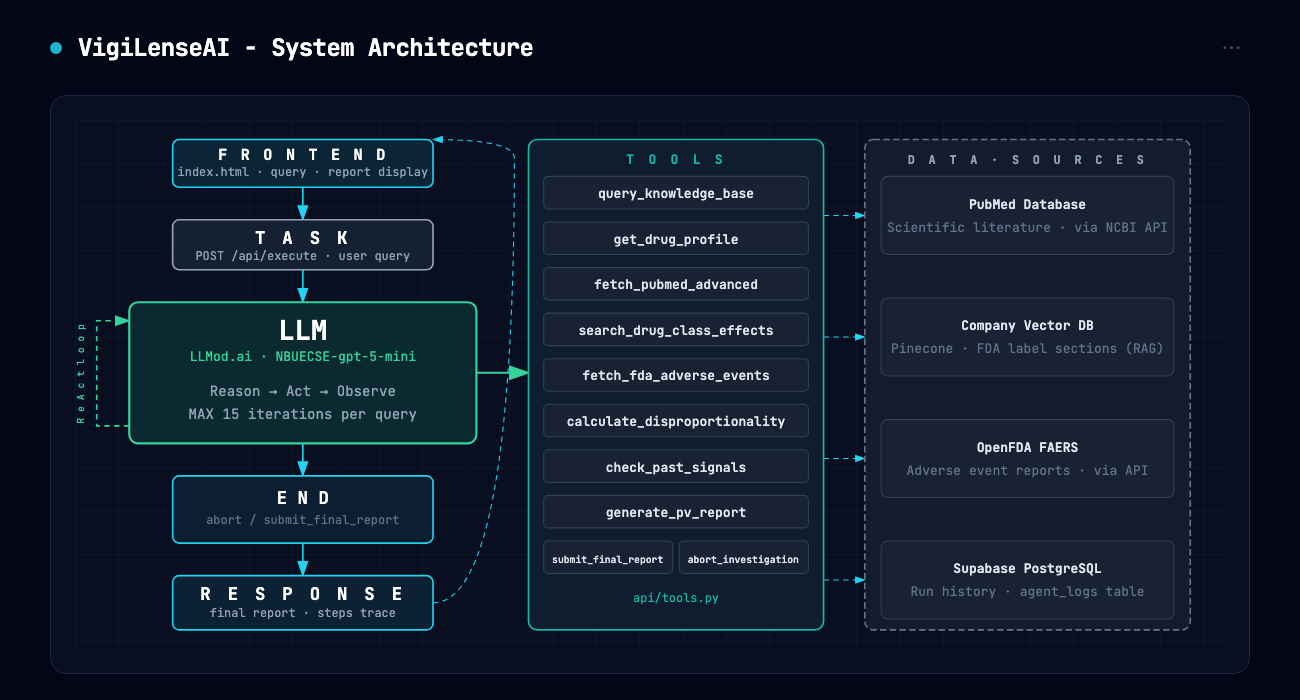
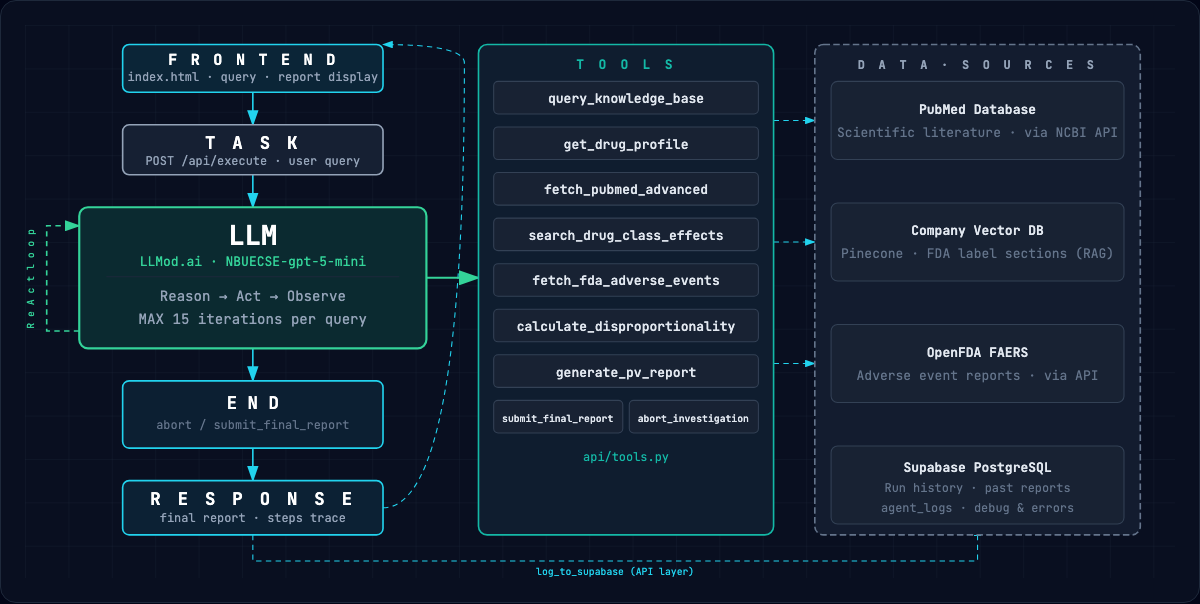
docs: update architecture diagram and README after check_past_signals removal
- architecture.html: remove check_past_signals tool row, shift remaining
  tools up, disconnect TOOLS→Supabase arrow, add RESPONSE→Supabase
  logging path (log_to_supabase), update Supabase description to show
  both run history and debug logs purposes
- api/architecture.png: regenerated from updated architecture.html
- README.md: remove check_past_signals tool entry, update tool count
  from 10 to 9 across all references

diff --git a/architecture.html b/architecture.html
@@ -54,7 +54,7 @@
         Bottom line: y=470 → RESPONSE bottom = TOOLS bottom = DATA SOURCES bottom
         Arrow gaps:  30px each (FRONTEND→TASK, TASK→LLM, LLM→END, END→RESPONSE)
     -->
-    <svg viewBox="0 0 1060 488">
+    <svg viewBox="0 0 1060 510">
       <defs>
         <marker id="arr"         markerWidth="10" markerHeight="7" refX="9" refY="3.5" orient="auto"><polygon points="0 0, 10 3.5, 0 7" fill="#64748b"/></marker>
         <marker id="arr-cyan"    markerWidth="10" markerHeight="7" refX="9" refY="3.5" orient="auto"><polygon points="0 0, 10 3.5, 0 7" fill="#22d3ee"/></marker>
@@ -80,14 +80,17 @@
       <!-- RESPONSE → FRONTEND (return loop, right side) -->
       <path d="M 330,445 Q 405,445 405,35 Q 405,18 330,18" fill="none" stroke="#22d3ee" stroke-width="1" stroke-dasharray="5,4" marker-end="url(#arr-cyan)"/>
 
+      <!-- RESPONSE → Supabase (logging, routed below diagram) -->
+      <path d="M 210,470 L 210,494 L 878,494 L 878,462" fill="none" stroke="#22d3ee" stroke-width="1" stroke-dasharray="5,4" marker-end="url(#arr-cyan)"/>
+      <text x="544" y="507" fill="#22d3ee" font-family="JetBrains Mono,monospace" font-size="9" text-anchor="middle">log_to_supabase (API layer)</text>
+
       <!-- LLM → TOOLS -->
       <line x1="370" y1="233" x2="418" y2="233" stroke="#34d399" stroke-width="2" marker-end="url(#arr-emerald)"/>
 
-      <!-- TOOLS → DATA SOURCES (4 arrows, aligned with data source centers) -->
+      <!-- TOOLS → DATA SOURCES (3 arrows, aligned with data source centers) -->
       <line x1="690" y1="88"  x2="728" y2="88"  stroke="#22d3ee" stroke-width="1" stroke-dasharray="5,4" marker-end="url(#arr-cyan)"/>
       <line x1="690" y1="200" x2="728" y2="200" stroke="#22d3ee" stroke-width="1" stroke-dasharray="5,4" marker-end="url(#arr-cyan)"/>
       <line x1="690" y1="312" x2="728" y2="312" stroke="#22d3ee" stroke-width="1" stroke-dasharray="5,4" marker-end="url(#arr-cyan)"/>
-      <line x1="690" y1="424" x2="728" y2="424" stroke="#22d3ee" stroke-width="1" stroke-dasharray="5,4" marker-end="url(#arr-cyan)"/>
 
       <!-- ══ LEFT COLUMN ══ -->
 
@@ -160,22 +163,18 @@
 
       <rect x="432" y="304" width="244" height="30" rx="4" fill="#0f172a"/>
       <rect x="432" y="304" width="244" height="30" rx="4" fill="rgba(30,41,59,0.6)" stroke="#334155" stroke-width="1"/>
-      <text x="554" y="324" fill="#e2e8f0" font-family="JetBrains Mono,monospace" font-size="12" font-weight="500" text-anchor="middle">check_past_signals</text>
+      <text x="554" y="324" fill="#e2e8f0" font-family="JetBrains Mono,monospace" font-size="12" font-weight="500" text-anchor="middle">generate_pv_report</text>
 
-      <rect x="432" y="346" width="244" height="30" rx="4" fill="#0f172a"/>
-      <rect x="432" y="346" width="244" height="30" rx="4" fill="rgba(30,41,59,0.6)" stroke="#334155" stroke-width="1"/>
-      <text x="554" y="366" fill="#e2e8f0" font-family="JetBrains Mono,monospace" font-size="12" font-weight="500" text-anchor="middle">generate_pv_report</text>
+      <!-- Tools 9+10: y=346, half width -->
+      <rect x="432" y="346" width="119" height="30" rx="4" fill="#0f172a"/>
+      <rect x="432" y="346" width="119" height="30" rx="4" fill="rgba(30,41,59,0.6)" stroke="#334155" stroke-width="1"/>
+      <text x="491" y="366" fill="#e2e8f0" font-family="JetBrains Mono,monospace" font-size="9" font-weight="500" text-anchor="middle">submit_final_report</text>
 
-      <!-- Tools 9+10: y=388, half width -->
-      <rect x="432" y="388" width="119" height="30" rx="4" fill="#0f172a"/>
-      <rect x="432" y="388" width="119" height="30" rx="4" fill="rgba(30,41,59,0.6)" stroke="#334155" stroke-width="1"/>
-      <text x="491" y="408" fill="#e2e8f0" font-family="JetBrains Mono,monospace" font-size="9" font-weight="500" text-anchor="middle">submit_final_report</text>
+      <rect x="557" y="346" width="119" height="30" rx="4" fill="#0f172a"/>
+      <rect x="557" y="346" width="119" height="30" rx="4" fill="rgba(30,41,59,0.6)" stroke="#334155" stroke-width="1"/>
+      <text x="616" y="366" fill="#e2e8f0" font-family="JetBrains Mono,monospace" font-size="9" font-weight="500" text-anchor="middle">abort_investigation</text>
 
-      <rect x="557" y="388" width="119" height="30" rx="4" fill="#0f172a"/>
-      <rect x="557" y="388" width="119" height="30" rx="4" fill="rgba(30,41,59,0.6)" stroke="#334155" stroke-width="1"/>
-      <text x="616" y="408" fill="#e2e8f0" font-family="JetBrains Mono,monospace" font-size="9" font-weight="500" text-anchor="middle">abort_investigation</text>
-
-      <text x="554" y="444" fill="#14b8a6" font-family="JetBrains Mono,monospace" font-size="11" text-anchor="middle">api/tools.py</text>
+      <text x="554" y="402" fill="#14b8a6" font-family="JetBrains Mono,monospace" font-size="11" text-anchor="middle">api/tools.py</text>
 
       <!-- ══ RIGHT COLUMN — DATA SOURCES (y=18 to y=470, h=452) ══ -->
 
@@ -206,8 +205,9 @@
       <!-- Supabase: y=388–460, center=424 -->
       <rect x="743" y="388" width="270" height="72" rx="6" fill="#0f172a"/>
       <rect x="743" y="388" width="270" height="72" rx="6" fill="rgba(30,41,59,0.6)" stroke="#334155" stroke-width="1"/>
-      <text x="878" y="418" fill="#e2e8f0" font-family="JetBrains Mono,monospace" font-size="12" font-weight="600" text-anchor="middle">Supabase PostgreSQL</text>
-      <text x="878" y="439" fill="#64748b" font-family="JetBrains Mono,monospace" font-size="12" text-anchor="middle">Run history · agent_logs table</text>
+      <text x="878" y="412" fill="#e2e8f0" font-family="JetBrains Mono,monospace" font-size="12" font-weight="600" text-anchor="middle">Supabase PostgreSQL</text>
+      <text x="878" y="430" fill="#64748b" font-family="JetBrains Mono,monospace" font-size="11" text-anchor="middle">Run history · past reports</text>
+      <text x="878" y="449" fill="#64748b" font-family="JetBrains Mono,monospace" font-size="11" text-anchor="middle">agent_logs · debug &amp; errors</text>
 
     </svg>
   </div>

diff --git a/README.md b/README.md
@@ -49,7 +49,7 @@ The system is designed to operate within a **specific company's drug portfolio**
 At the core of VigiLenseAI is a ReAct agent loop implemented in [`api/agent.py`](api/agent.py). When a query arrives, the agent enters an iterative cycle:
 
 1. **Reason** - the LLM reads the current state and decides what to do next
-2. **Act** - it calls one of 10 specialized tools
+2. **Act** - it calls one of 9 specialized tools
 3. **Observe** - the tool result is added to the context
 4. Repeat, up to a maximum of 15 iterations
 
@@ -59,11 +59,9 @@ The loop terminates in one of two ways: the agent calls `submit_final_report` wh
 
 At each iteration, the agent reasons about what information it still needs and independently decides which tool to call next. There is no fixed sequence -the agent may search PubMed before or after retrieving the drug profile, may call a tool multiple times with different parameters, or may skip tools that aren't relevant to the specific query. The loop runs for as many iterations as the investigation requires, up to a maximum of 15. If the agent has gathered enough evidence earlier, it ends the investigation before reaching that limit.
 
-The 10 available tools are:
+The 9 available tools are:
 
 **`query_knowledge_base`** - Performs a semantic vector search (RAG) over a Pinecone index containing FDA label content and safety summaries for the 8 formulary drugs. This is the one tool the agent is always required to call first, to verify the drug is in the portfolio before doing anything else.
-
-**`check_past_signals`** - Queries the Supabase `agent_logs` table to surface any previous investigations on the same drug, so the agent can build on prior findings rather than starting from scratch.
 
 **`get_drug_profile`** - Resolves the drug name against OpenFDA to retrieve the current FDA label: active ingredients, drug class, mechanism of action, and brand names. Falls back to RxNorm for normalization when the OpenFDA lookup is ambiguous.
 
@@ -168,7 +166,7 @@ The bundled knowledge base covers 8 drugs: **Adalimumab**, **Atorvastatin**, **L
 ├── api/
 │   ├── index.py          # FastAPI app - all HTTP routes and data models
 │   ├── agent.py          # ReAct loop, system prompt, citation integrity scrubber
-│   ├── tools.py          # 10 pharmacovigilance tools
+│   ├── tools.py          # 9 pharmacovigilance tools
 │   ├── config.py         # Shared SDK clients (OpenAI, Pinecone, Supabase)
 │   └── architecture.png  # Architecture diagram (served at /api/model_architecture)
 ├── data/                 # Drug profile JSON files used to seed Pinecone
